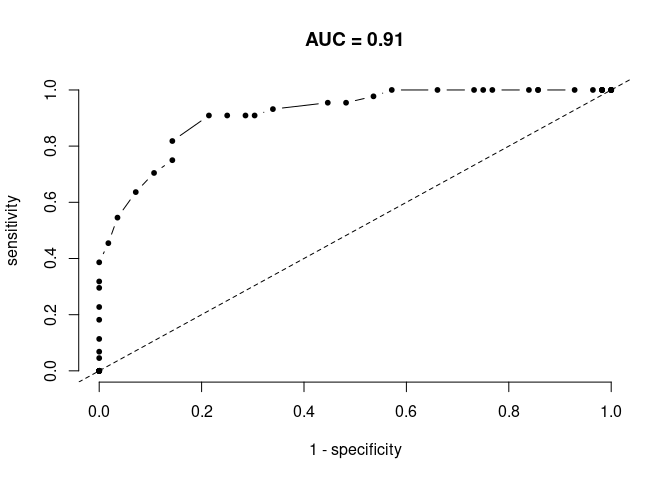
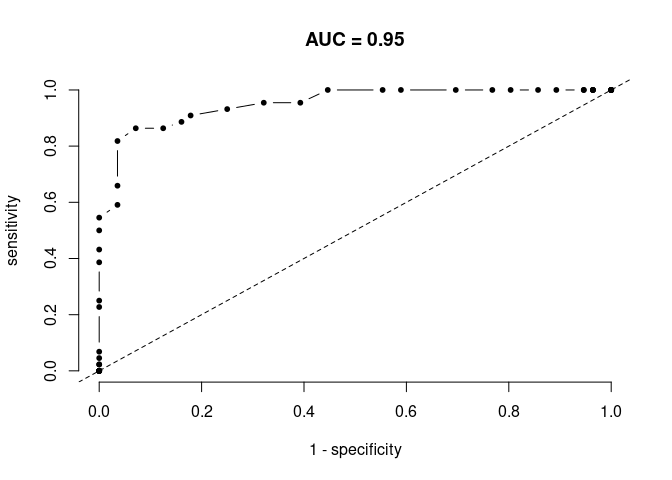
readme rebuilded

diff --git a/README.md b/README.md
@@ -41,13 +41,13 @@ x <- extract(r ,xy) #elevation
 p <- ifelse(x < 130, 1, 0) #real presence/absence - doesn't like heights
 occ <- data.frame(x = xy[, 1], y = xy[, 2], p = p) #combined in a dataframe
 head(occ)
-#>           x           y p
-#> 1 0.8114754 0.005747126 1
-#> 2 0.9754098 0.385057471 1
-#> 3 0.3360656 0.212643678 0
-#> 4 0.1721311 0.385057471 1
-#> 5 0.5655738 0.810344828 0
-#> 6 0.2377049 0.201149425 0
+#>            x         y p
+#> 1 0.76229508 0.3620690 1
+#> 2 0.81147541 0.8103448 0
+#> 3 0.92622951 0.1206897 1
+#> 4 0.36885246 0.2471264 0
+#> 5 0.68032787 0.2241379 1
+#> 6 0.04098361 0.4195402 1
 
 # sdm potential output
 sdm <- 1 / r + rnorm(ncell(r), 0, .001) #sdm predictions
@@ -66,14 +66,14 @@ sdm_bin[sdm >= .5] <- 1
 confusion(sdm_bin, occ)
 #> $confusion.table
 #>               obs.presence obs.absence
-#> pred.presence           43          13
-#> pred.absence             4          40
+#> pred.presence           48           8
+#> pred.absence             6          38
 #> 
 #> $specificity
-#> [1] 0.7678571
+#> [1] 0.8571429
 #> 
 #> $sensitivity
-#> [1] 0.9090909
+#> [1] 0.8636364
 ```
 
 The confusion matrix is used in the famous **AUROC** curve, which shows
@@ -89,7 +89,7 @@ null <- AUROC(sdm, occ, th = seq(0, 1, length.out = 50))
 
 <img src="man/figures/README-auroc-1.png" width="100%" />
 
-And for a very bad SDM:
+And for a very bad SDM the two lines largely overlap.
 
 ``` r
 values(sdm) <- rnorm(ncell(sdm))
